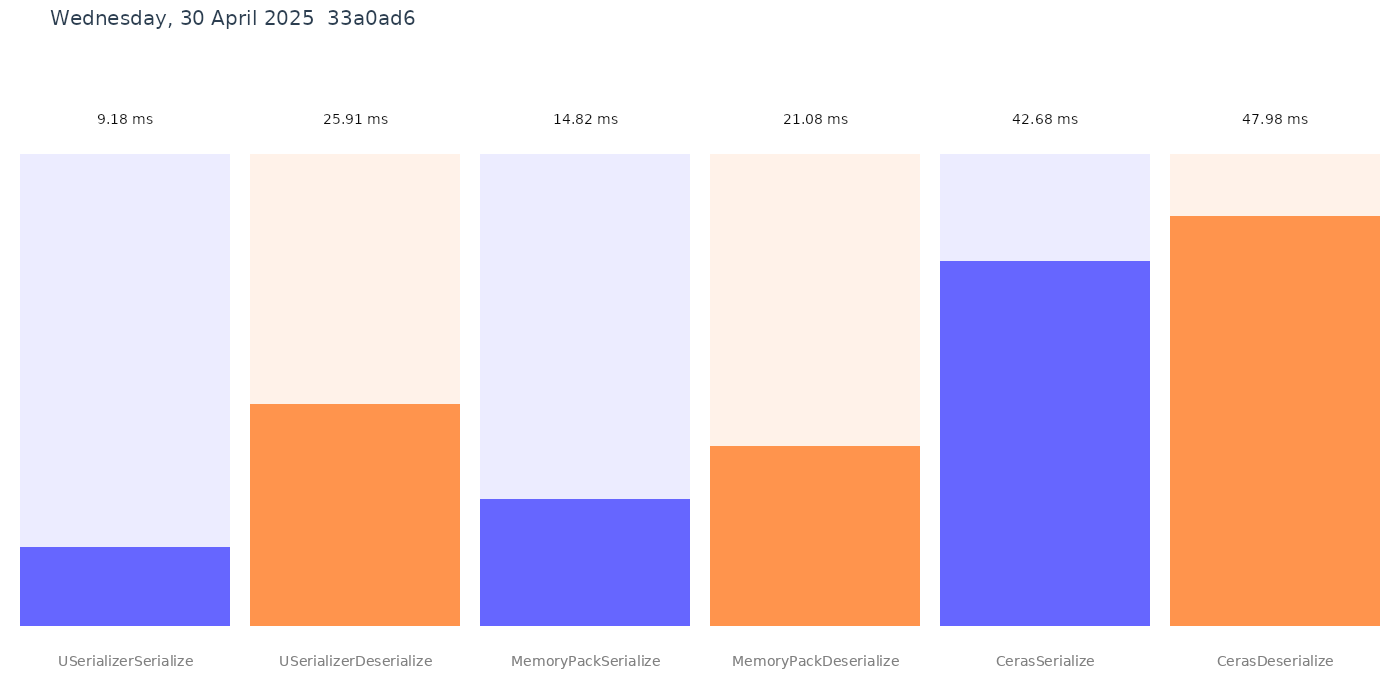
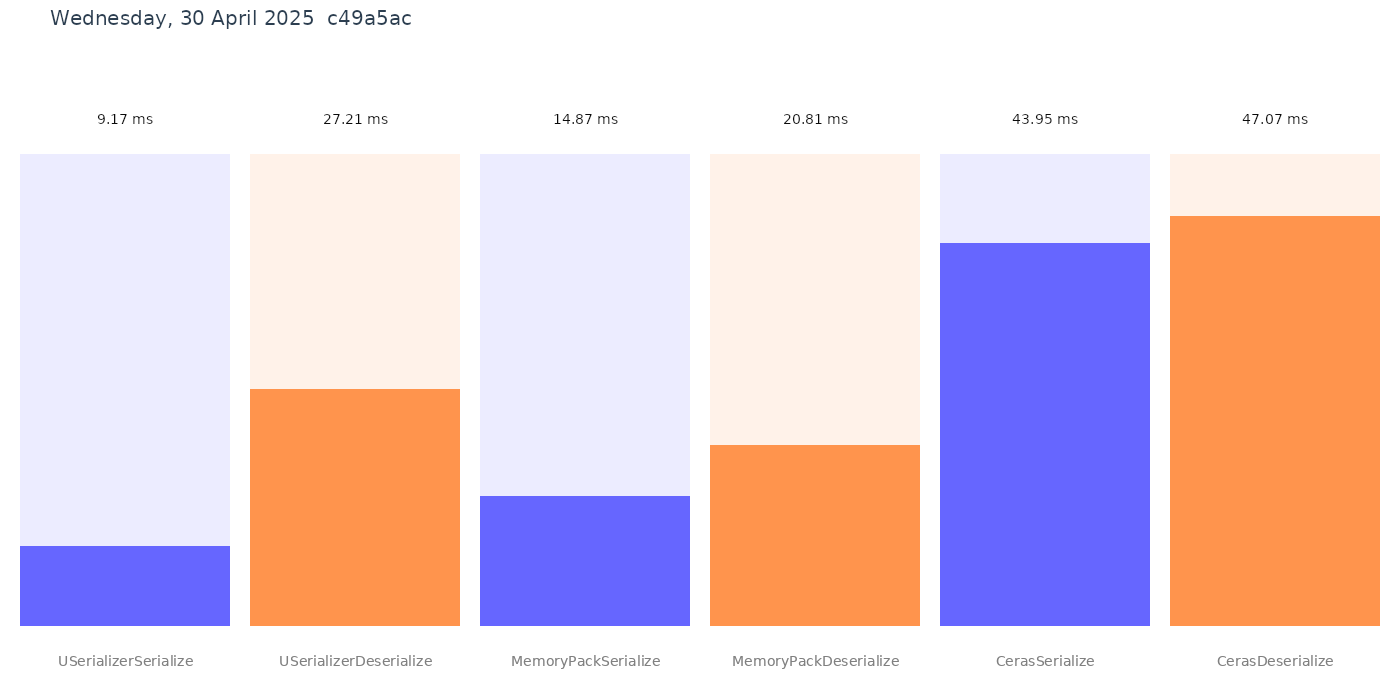
deploy: c49a5acca6d8ef6db19a026dd77cc36446eab438

diff --git a/performance.md b/performance.md
@@ -12,9 +12,9 @@ WarmupCount=3
 ```
 |                 Method |      Mean |      Error |    StdDev |
 |----------------------- |----------:|-----------:|----------:|
-|   USerializerSerialize |  9.179 ms |  0.1770 ms | 0.0097 ms |
-| USerializerDeserialize | 25.908 ms |  9.8215 ms | 0.5383 ms |
-|    MemoryPackSerialize | 14.821 ms |  0.1305 ms | 0.0072 ms |
-|  MemoryPackDeserialize | 21.085 ms |  3.3755 ms | 0.1850 ms |
-|         CerasSerialize | 42.681 ms | 18.9107 ms | 1.0366 ms |
-|       CerasDeserialize | 47.979 ms | 10.6870 ms | 0.5858 ms |
+|   USerializerSerialize |  9.171 ms |  0.8493 ms | 0.0466 ms |
+| USerializerDeserialize | 27.206 ms | 12.4210 ms | 0.6808 ms |
+|    MemoryPackSerialize | 14.872 ms |  0.2454 ms | 0.0135 ms |
+|  MemoryPackDeserialize | 20.809 ms |  4.4923 ms | 0.2462 ms |
+|         CerasSerialize | 43.952 ms |  3.5329 ms | 0.1936 ms |
+|       CerasDeserialize | 47.069 ms |  9.6353 ms | 0.5281 ms |
